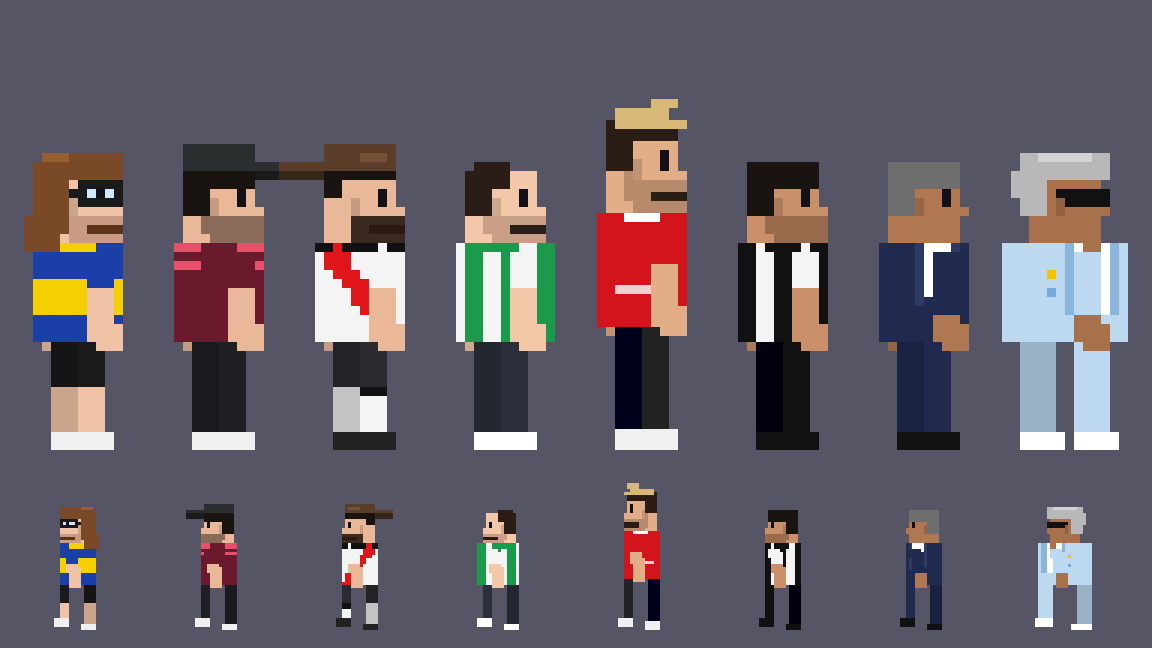
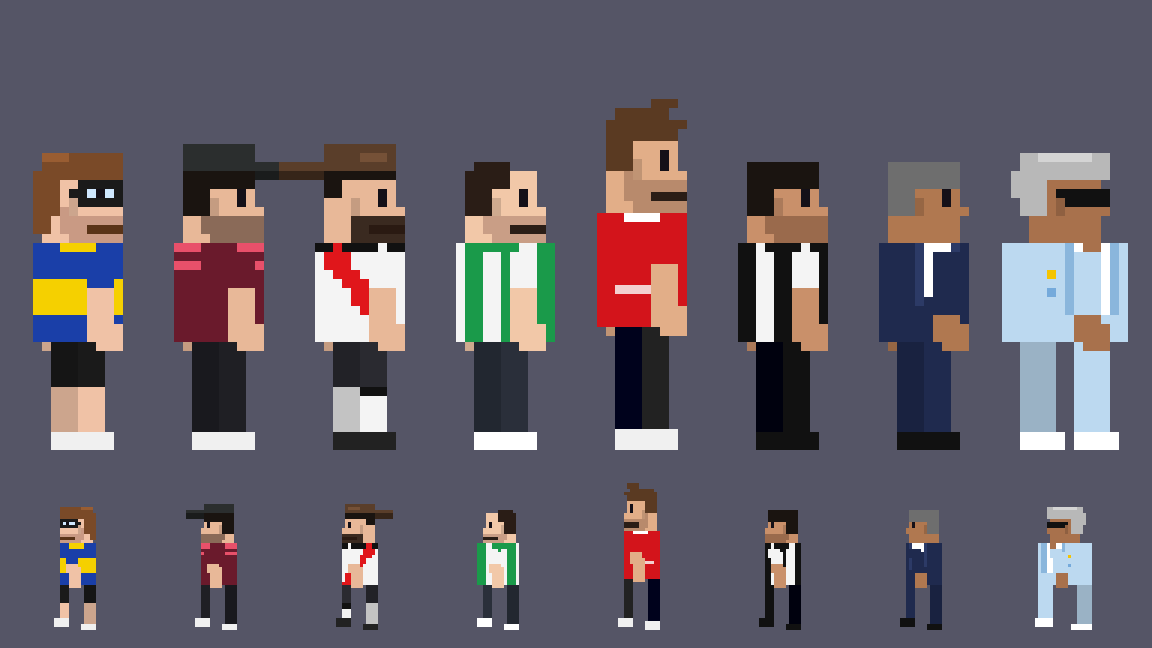
Shorter mullet for Juani, full brown hair for Martin
Claude-Session: https://claude.ai/code/session_019VuRk6srdbb86cxBRd8m79

diff --git a/qep-arcade/js/levels.js b/qep-arcade/js/levels.js
@@ -7,7 +7,7 @@ const HEROES = {
   nico: { name: 'NICO', look: { skin: '#e8b898', hair: '#1a1410', hairStyle: 'short', stubble: '#8a6a58', hat: 'cap', hatCol: '#2b2e2e', shirt: 'riverAlt', pants: '#1f1f24', shoes: '#f0f0f0' } },
   santi: { name: 'SANTI', look: { skin: '#e8b898', hair: '#1a1410', hairStyle: 'buzz', beard: '#3a2a20', mustache: '#2a1a12', hat: 'capBack', hatCol: '#5a3e2a', shirt: 'river', pants: '#2a2a30', shorts: true, socks: '#f4f4f4', shoes: '#222' } },
   fran: { name: 'FRAN', look: { skin: '#f2c8a8', hair: '#2a1d16', hairStyle: 'receding', mustache: '#2a1d16', stubble: '#c99e86', shirt: 'banfield', pants: '#2a2f3a', shoes: '#fff' } },
-  martin: { name: 'MARTIN', look: { skin: '#e2ae88', hair: '#d8b878', hair2: '#2a1d16', hairStyle: 'twotone', mustache: '#2a1d16', stubble: '#b88a6c', shirt: 'rojo', pants: '#222', shoes: '#f0f0f0', h: 1.15, beer: true } },
+  martin: { name: 'MARTIN', look: { skin: '#e2ae88', hair: '#5a3a22', hair2: '#5a3a22', hairStyle: 'twotone', mustache: '#2a1d16', stubble: '#b88a6c', shirt: 'rojo', pants: '#222', shoes: '#f0f0f0', h: 1.15, beer: true } },
 };
 
 const pal = (arr, i) => arr[Math.abs(i) % arr.length];

diff --git a/qep-arcade/js/art.js b/qep-arcade/js/art.js
@@ -137,8 +137,8 @@ function hairCap(c, L) {
       rect(c, 4, -33, 2, 3, hc); rect(c, -4, -37, 1, 1, '#000'); rect(c, 1, -38, 2, 1, hc); break;
     case 'receding': rect(c, -4, -31, 5, 2, hc); rect(c, -4, -29, 3, 3, hc); rect(c, -3, -32, 4, 1, hc); break;
     case 'mullet':
-      rect(c, -4, -33, 9, 3, hc); rect(c, -5, -32, 2, 2, hc); rect(c, 3, -31, 2, 1, hc);
-      rect(c, -5, -30, 4, 6, hc); rect(c, -6, -26, 4, 4, hc); rect(c, -4, -33, 3, 1, shade(hc, 1.25)); break;
+      rect(c, -4, -33, 9, 3, hc); rect(c, 3, -31, 2, 1, hc);
+      rect(c, -5, -31, 3, 5, hc); rect(c, -5, -26, 2, 2, hc); rect(c, -4, -33, 3, 1, shade(hc, 1.25)); break;
     case 'slick':
       rect(c, -5, -33, 10, 3, hc); rect(c, -5, -30, 3, 4, hc); rect(c, -6, -31, 2, 3, hc);
       rect(c, -3, -33, 6, 1, shade(hc, 1.15)); break;
